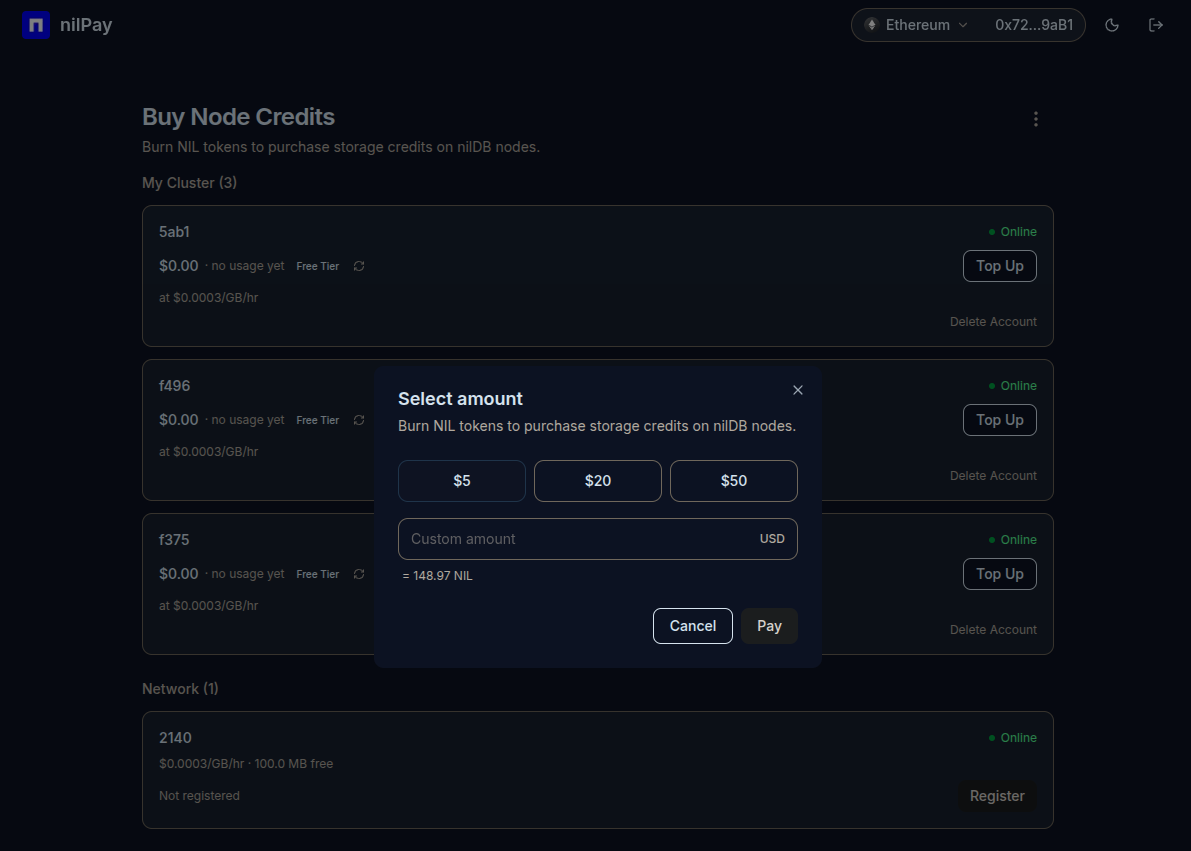
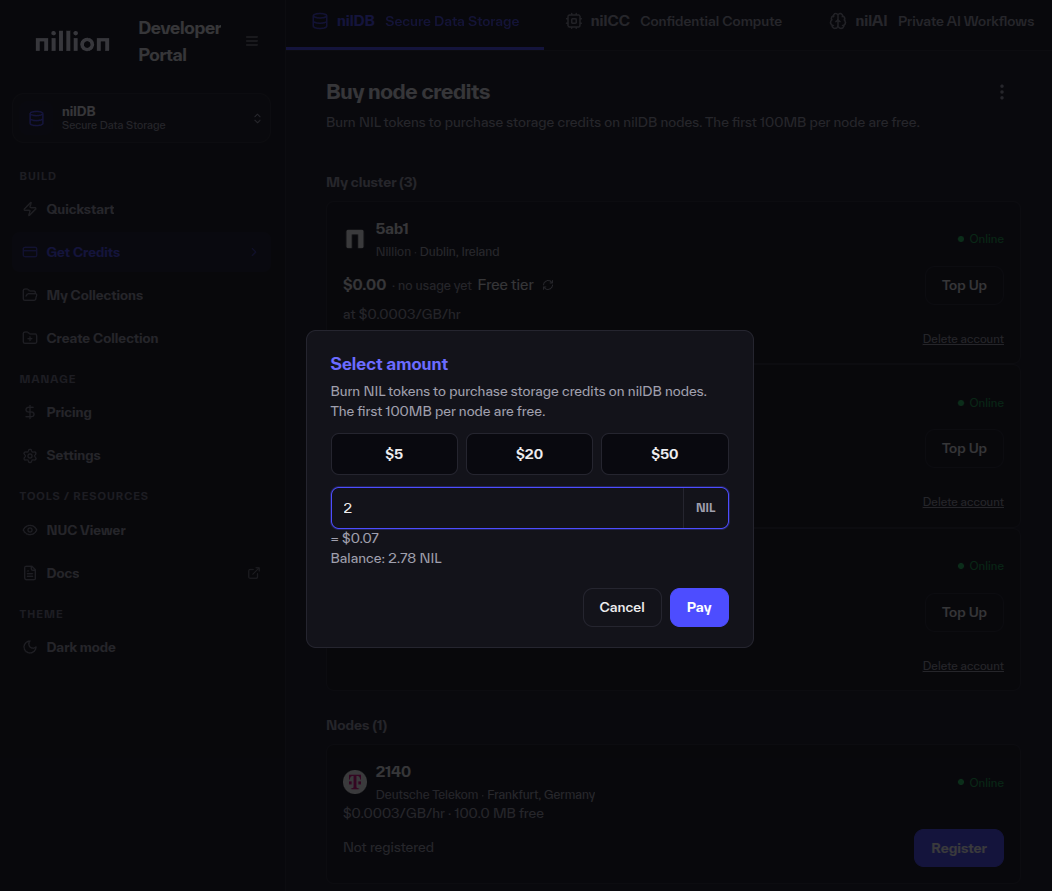
feat: add developer portal

diff --git a/sidebar-build.js b/sidebar-build.js
@@ -5,7 +5,7 @@ const buildSidebar = [
     value: 'Build',
     defaultStyle: true,
   },
-  'blind-computer/build/network-config',
+  'blind-computer/build/developer-portal',
   {
     type: 'category',
     label: 'Private Compute with nilCC',
@@ -34,11 +34,11 @@ const buildSidebar = [
         label: 'API Reference',
         id: 'blind-computer/build/compute/api-reference',
       },
-      {
-        type: 'doc',
-        label: 'Verification',
-        id: 'blind-computer/build/compute/verification',
-      },
+      // {
+      //   type: 'doc',
+      //   label: 'Verification',
+      //   id: 'blind-computer/build/compute/verification',
+      // },
       {
         type: 'doc',
         label: 'Limitations',
@@ -210,17 +210,13 @@ const buildSidebar = [
         href: 'https://github.com/NillionNetwork/blind-module-examples/tree/main/nilai',
       },
       {
-        type: 'link',
-        label: 'nilAI Developer Dashboard',
-        href: 'https://nilai.nillion.com/',
-      },
-      {
         type: 'doc',
         label: 'nilAI API',
         id: 'api/nilai/overview',
       },
     ],
   },
+  'blind-computer/build/network-config',
   {
     type: 'doc',
     label: 'Permissions and Payments',

diff --git a/docusaurus.config.js b/docusaurus.config.js
@@ -274,6 +274,11 @@ const config = {
             items: [
               {
                 type: 'link',
+                label: 'Developer Portal',
+                href: 'https://developer.nillion.com/',
+              },
+              {
+                type: 'link',
                 label: 'Github',
                 href: 'https://github.com/NillionNetwork',
               },

diff --git a/docs/blind-computer/build/storage/collection-explorer.md b/docs/blind-computer/build/storage/collection-explorer.md
@@ -2,9 +2,9 @@ import CTABanner from '@site/src/components/CTABanner';
 
 # Collection Explorer
 
-[![Collection Explorer](/img/collection-explorer/collection-explorer-card.png)](https://collection-explorer.nillion.com/)
+[![Collection Explorer](/img/collection-explorer/collection-explorer-card.png)](https://developer.nillion.com/nildb?section=my-collections)
 
-The [Nillion Collection Explorer](https://collection-explorer.nillion.com) is a no-code builder tool for creating and managing Nillion Private Storage schemas, collections, and records. This web-based interface provides a UI abstraction that speeds up and simplifies development by allowing builders to interact with Nillion's private data storage infrastructure without requiring programming knowledge or command-line tools. Everything possible through the Collection Explorer is also available programmatically via the Nillion [Secretvaults SDK](/blind-computer/build/storage/secretvaults).
+The [Nillion Collection Explorer](https://developer.nillion.com/nildb?section=my-collections) is a no-code builder tool for creating and managing Nillion Private Storage schemas, collections, and records. This web-based interface provides a UI abstraction that speeds up and simplifies development by allowing builders to interact with Nillion's private data storage infrastructure without requiring programming knowledge or command-line tools. Everything possible through the Collection Explorer is also available programmatically via the Nillion [Secretvaults SDK](/blind-computer/build/storage/secretvaults).
 
 ## What is the Collection Explorer?
 
@@ -15,21 +15,6 @@ The Collection Explorer is your gateway to [Nillion Private Storage](/blind-comp
 - **Control data privacy** by marking specific fields as encrypted for distribution across nilDB nodes
 
 This database management interface is specifically designed for privacy-preserving data storage across distributed clusters.
-
-## Getting Started
-
-### Network Settings Configuration
-
-Go to the [Collection Explorer](https://collection-explorer.nillion.com/) and configure your connection to the Nillion Network:
-
-1. Navigate to "⚙ Network Settings" in the navbar
-2. Configure your nilDB Network settings:
-   - **Auth Method**: Wallet sign-in or API Key (legacy)
-   - **Node endpoints**: Defaults to [nilDB Testnet nodes](/blind-computer/build/network-config#nildb-nodes)
-3. Sign-in with your wallet or enter your [Nillion API Key](/blind-computer/build/storage/api-access)
-4. Save your configuration - these settings will persist across Collection Explorer sessions
-
-[![Set API Key](/img/collection-explorer/collection-explorer-settings.png)](https://collection-explorer.nillion.com/)
 
 ## Managing Collections
 
@@ -42,7 +27,7 @@ The Collections dashboard provides an overview of all collections where your bui
 - View key metrics like record count and creation timestamps
 - See collection types (standard or owned)
 
-[![View Collections](/img/collection-explorer/collection-explorer-view-collections.png)](https://collection-explorer.nillion.com/collections)
+![View Collections](/img/collection-explorer/collection-explorer-view-collections.png)
 
 ### Create New Collections
 
@@ -59,7 +44,7 @@ The custom schema builder provides an intuitive, visual interface:
 - **Live preview**: See your JSON Schema update in real-time as you build
 - **Schema validation**: Automatic validation ensures your schema is properly formatted
 
-[![Create Collection with the UI](/img/collection-explorer/collection-explorer-create-collection-ui.png)](https://collection-explorer.nillion.com/)
+![Create Collection with the UI](/img/collection-explorer/collection-explorer-create-collection-ui.png)
 
 #### Option 2: JSON Schema Upload (for devs with existing JSON schema code)
 
@@ -69,8 +54,6 @@ If you already have a JSON Schema or prefer working with code:
 - **Automatic validation**: The system validates your JSON Schema structure before creation
 - **Error feedback**: Get immediate feedback on any schema formatting issues
 - **Faster setup**: Skip the visual builder if you're comfortable with JSON
-
-[![Create Collection by uploading json](/img/collection-explorer/collection-explorer-create-collection-json.png)](https://collection-explorer.nillion.com/)
 
 ## Working with Records and Schemas
 
@@ -101,8 +84,6 @@ Once you have a collection, you can fully manage its data:
 ### Viewing and Managing Schemas
 
 Understanding and modifying your collection's structure:
-
-[![View Collection Schema](/img/collection-explorer/collection-explorer-view-schema.png)](https://collection-explorer.nillion.com/)
 
 - **Schema visualization**: See the complete JSON Schema that defines your collection's structure and validation rules
 - **Copy functionality**: Easily copy schema JSON for use in other applications or for backup

diff --git a/docs/blind-computer/build/compute/quickstart.md b/docs/blind-computer/build/compute/quickstart.md
@@ -6,11 +6,6 @@ import ThumbsUpDown from '@site/src/components/ThumbsUpDown';
 
 Get started with nilCC in under 5 minutes by deploying your first secure workload.
 
-:::info
-
-Before you start building, you'll need a nilCC API Key. Request a **nilCC API Key** by filling out [this form](https://surveys.nillion.com/developers/07089b92-f409-4b65-b825-d61132971869)
-:::
-
 ## Deploy Your First Workload
 
 Let's deploy a simple "Hello World" API service that runs in a secure Confidential VM.
@@ -34,21 +29,20 @@ Choose your preferred workload creation method. Both options create the same sec
 <Tabs>
 <TabItem value="ui" label="Create Workload with UI (Recommended)" default>
 
-Create a new workload with the ***[nilCC Workload Manager UI](https://nilcc.nillion.com).*** 
+Create a new workload with the [Developer Portal nilCC UI](https://developer.nillion.com/nilcc?section=create-workload).
 
 This workload creation method is recommended for first-time nilCC users, visual workflow management, and ongoing monitoring.
 
 [![nilCC Create Workload](/img/nilcc-create-workload.png)](https://nilcc.nillion.com/workloads/create)
 
-1. **Visit**: [nilCC Workload Manager](https://nilcc.nillion.com)
-2. **Authenticate**: Enter your nilCC API Key to log in
-3. **Create New Workload**:
+1. **Visit**: [Developer Portal](https://developer.nillion.com/nilcc?section=create-workload)
+2. **Create New Workload**:
    - **Name**: `hello-world-api`
    - **Docker Compose**: Paste the YAML content from Step 1
    - **Service to Expose**: `web` (automatically detected)
    - **Port**: `8080` (automatically detected)
    - **Resources**: Optionally adjust the resource tier as needed
-4. **Deploy**: Click "Create Workload" and monitor the deployment status in real-time
+3. **Deploy**: Click "Create Workload" and monitor the deployment status in real-time
 
 </TabItem>
 <TabItem value="api" label="Create Workload with API">

diff --git a/docs/blind-computer/build/network-config.md b/docs/blind-computer/build/network-config.md
@@ -21,7 +21,7 @@ nilCC OpenAPI Spec: https://api.nilcc.nillion.network/openapi.json
 [Private Storage](/blind-computer/build/storage/overview) solutions leverage a decentralized cluster of [nilDB](/blind-computer/learn/blind-modules#nildb) nodes, making it possible to store in the cluster and to query both plaintext and encrypted data. Builders can treat any collection of one or more nilDB nodes as a cluster. To work with a cluster, builders either can connect to it using the [secretvaults SDK](/blind-computer/build/storage/secretvaults) or can interact directly with individual nodes via the [nilDB API](/api/nildb/overview) and [blindfold library](/blind-computer/build/storage/blindfold).
 
 <Tabs>
-    <TabItem value="nilDB-testnet" label="nilDB Testnet" default>
+    <TabItem value="nilDB-testnet" label="nilDB Testnet">
 
     ### [nildb-stg-n1](https://nildb-stg-n1.nillion.network/about)
 
@@ -46,7 +46,7 @@ nilCC OpenAPI Spec: https://api.nilcc.nillion.network/openapi.json
 
     </TabItem>
 
-    <TabItem value="nilDB-mainnet" label="nilDB Mainnet">
+    <TabItem value="nilDB-mainnet" label="nilDB Mainnet" default>
 
     ### [nildb-5ab1](https://nildb-5ab1.nillion.network/about)
 

diff --git a/docs/blind-computer/build/permissions-and-payments.md b/docs/blind-computer/build/permissions-and-payments.md
@@ -13,4 +13,4 @@ To get started with NUCs, see [API Access](/blind-computer/build/storage/api-acc
 
 ## Credits
 
-Regarding payments, nilDB and nilCC use a NIL based credit system whereas nilAI - as a product built on top of nilCC - has a Stripe integration. The credits are used in a pay-as-you-go fashion and can be topped up from the respective management portals for these modules. Both nilDB and nilAI provide have a free tier available.
+Regarding payments, nilDB and nilCC use a NIL based credit system whereas nilAI - as a product built on top of nilCC - has a Stripe integration. The credits are used in a pay-as-you-go fashion and can be topped up from the respective management portals for these modules. Both nilDB and nilAI provide have a free tier available. Visit the [Developer Portal](https://developer.nillion.com/) to explore these options.

diff --git a/docs/blind-computer/tools.md b/docs/blind-computer/tools.md
@@ -12,6 +12,14 @@ import ToolFeatureItem from '@site/src/components/ToolFeatureItem';
 <section className="tools-grid">
 
 <ToolFeatureItem
+  title="Developer Portal"
+  description="Manage your nilDB, nilCC, and nilAI accounts from one place."
+  icon="🛠"
+  href="https://developer.nillion.com/"
+  external={true}
+/>
+
+<ToolFeatureItem
   title="NIL Faucet"
   description="Get NIL (Nillion Testnet tokens) to start building apps."
   icon="💧"
